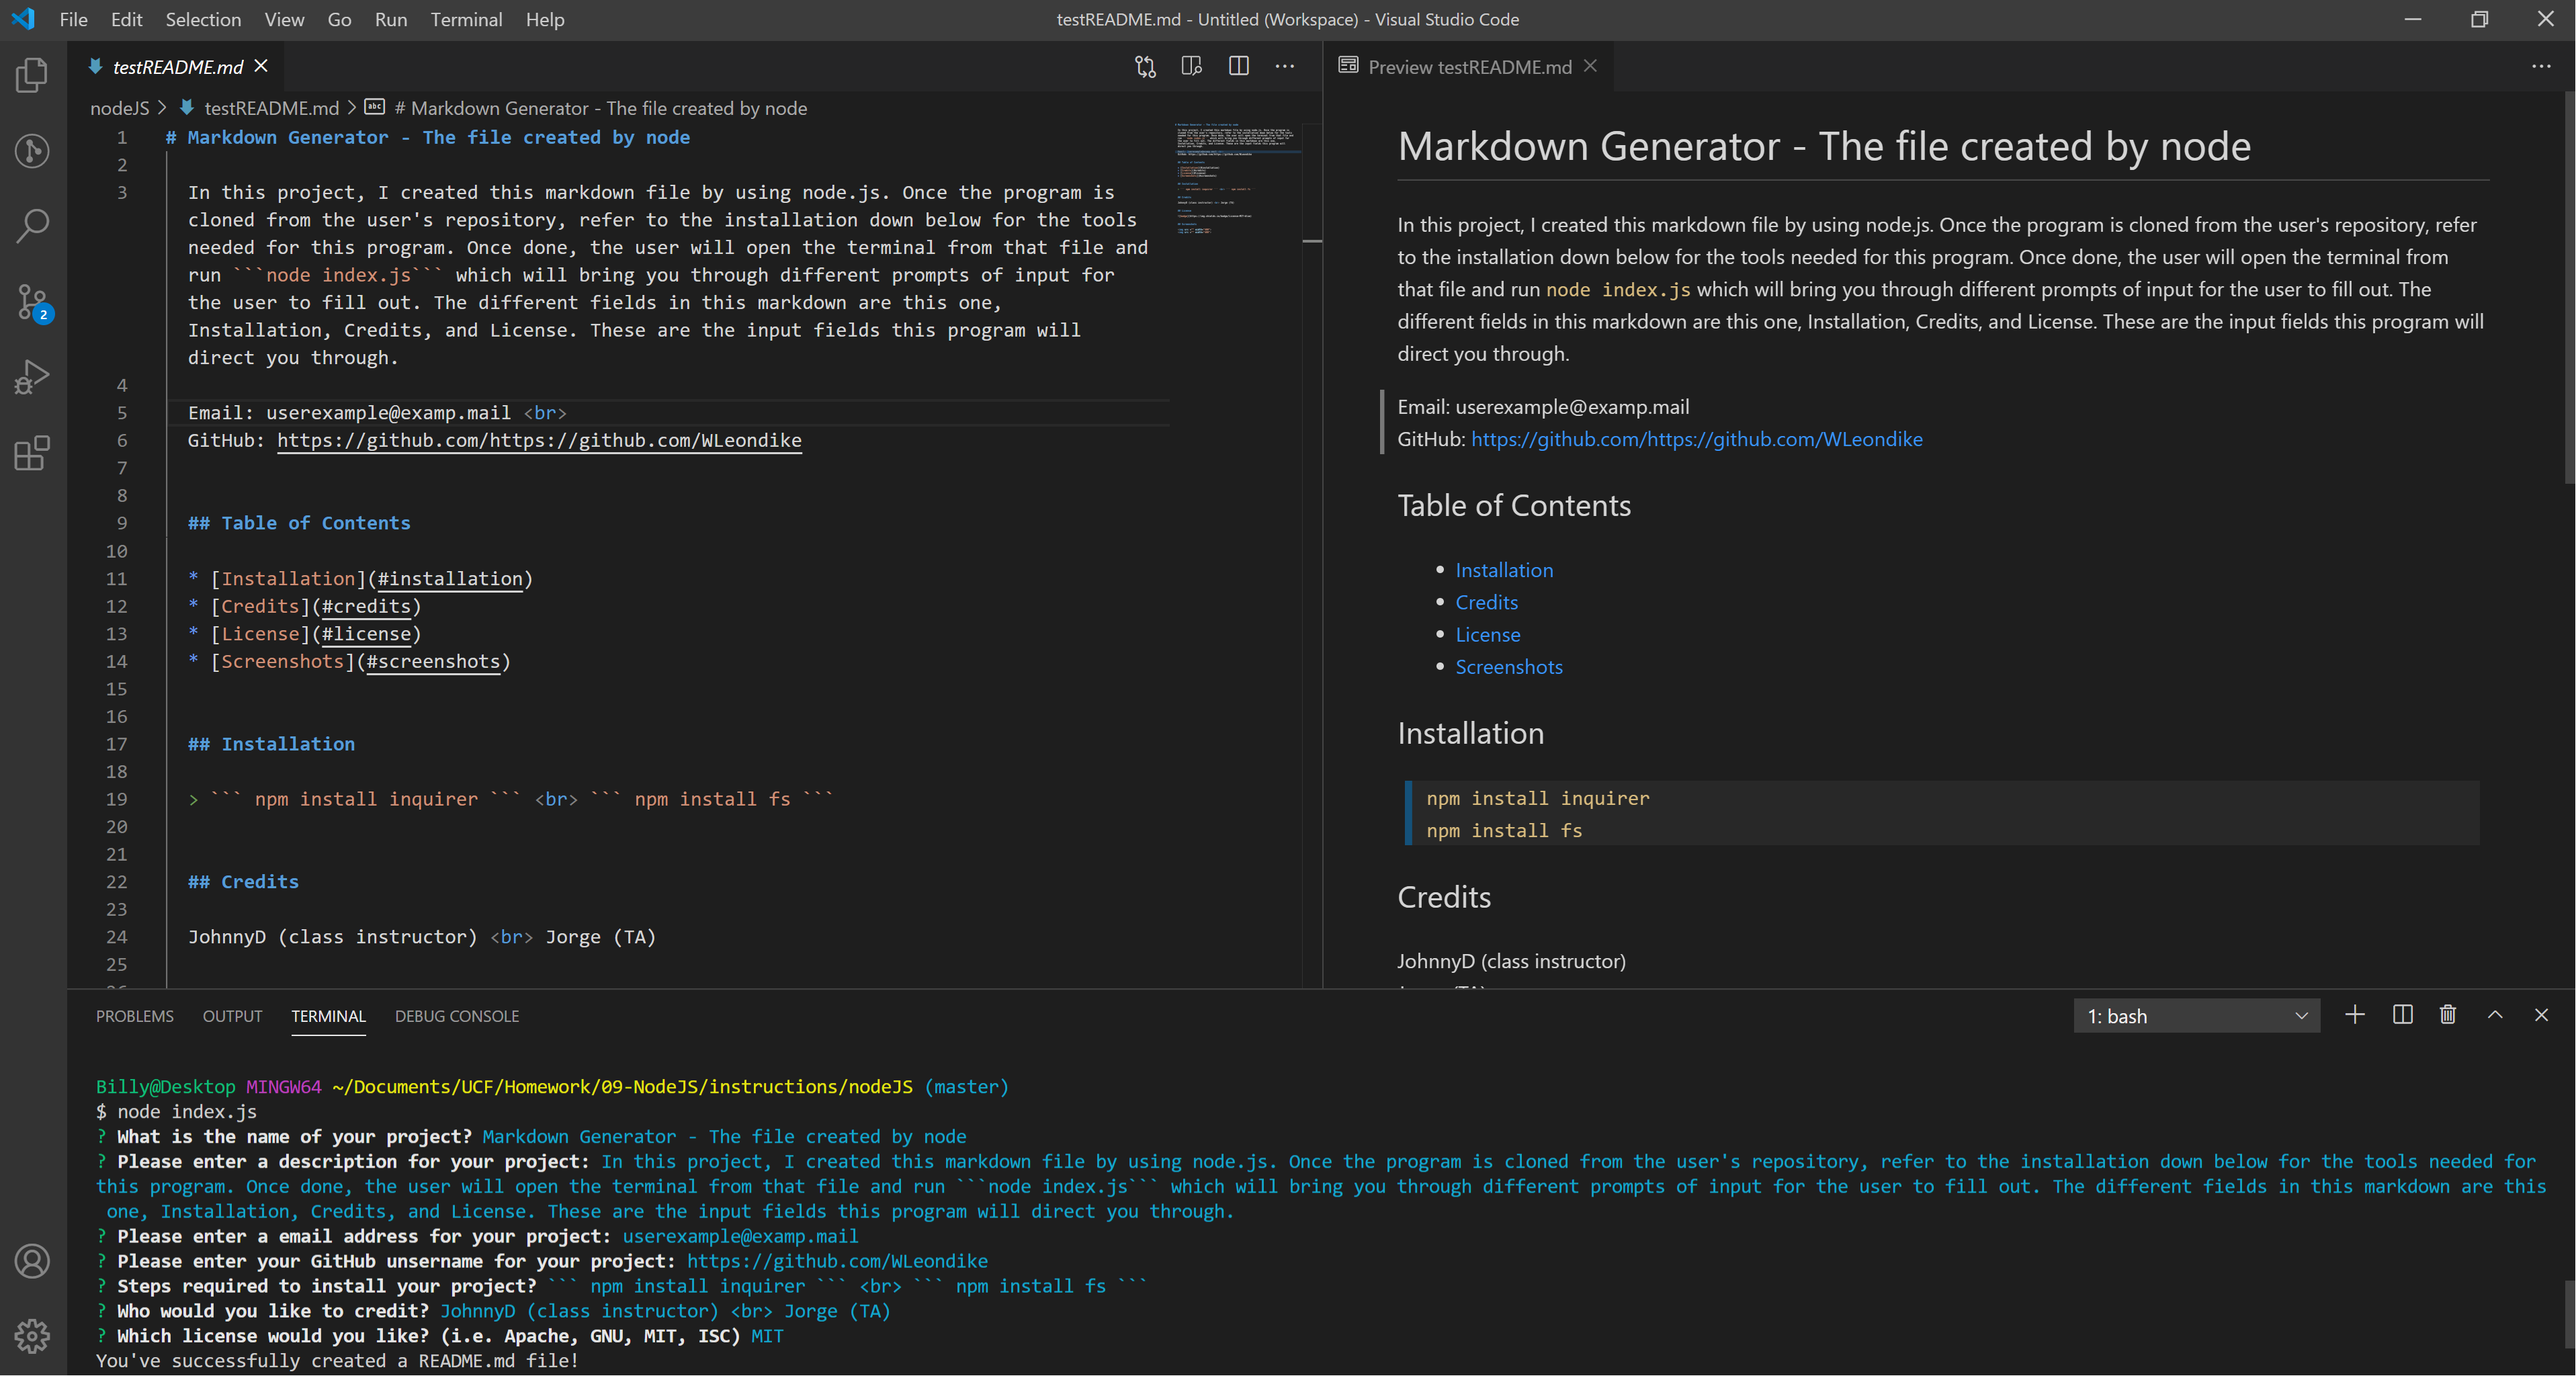
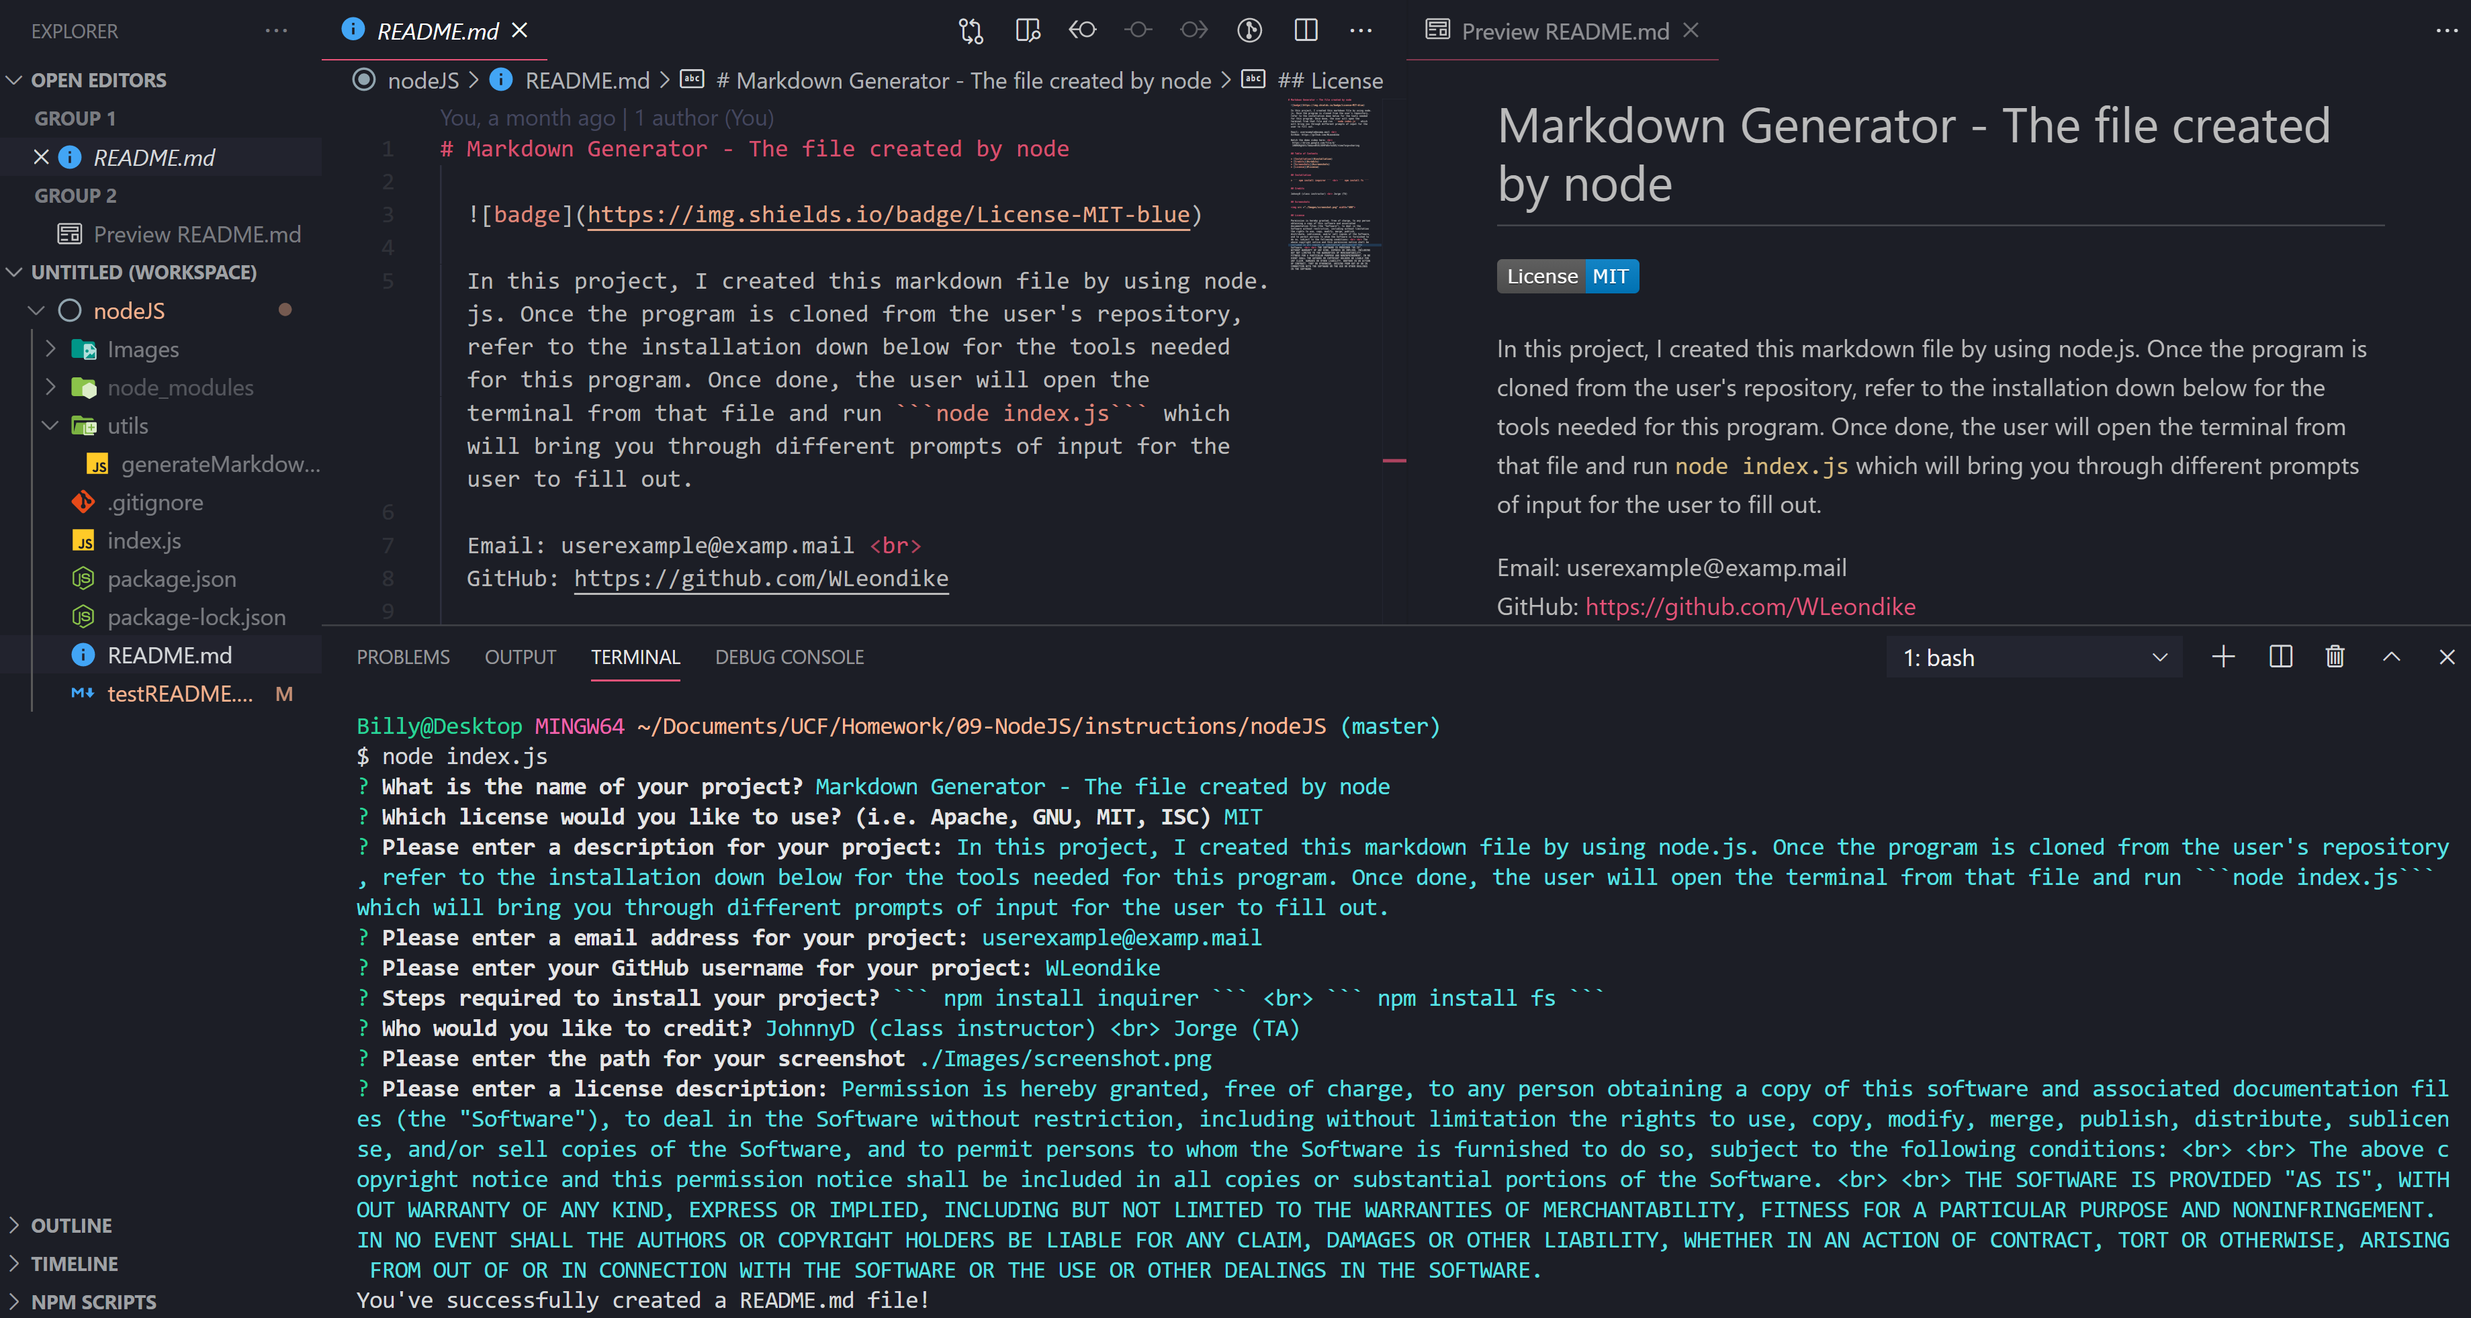
updated application screenshot

diff --git a/testREADME.md b/testREADME.md
@@ -1,22 +1,19 @@
 # Markdown Generator - The file created by node
 
   ![badge](https://img.shields.io/badge/License-MIT-blue)
-  
-  In this project, I created this markdown file by using node.js. Once the program is cloned from the user's repository, refer to the installation down below for the tools needed for this program. Once done, the user will open the terminal from that file and run ```node index.js``` which will bring you through different prompts of input for the user to fill out. 
-  
+
+  In this project, I created this markdown file by using node.js. Once the program is cloned from the user's repository, refer to the installation down below for the tools needed for this program. Once done, the user will open the terminal from that file and run ```node index.js``` which will bring you through different prompts of input for the user to fill out.
+
   Email: userexample@examp.mail <br>
   GitHub: https://github.com/WLeondike
-
-  Watch the demo video here: <br>
-   https://drive.google.com/file/d/1HBHGHghUtLTbbaznWtEL5O9Fd8vfw3AS/view?usp=sharing
-
+  
 
   ## Table of Contents
 
   * [Installation](#installation)
   * [Credits](#credits)
-  * [Screenshots](#screenshots)
   * [License](#license)
+  * [Screenshots](#screenshots)
   
 
   ## Installation
@@ -27,7 +24,7 @@
   ## Credits
   
   JohnnyD (class instructor) <br> Jorge (TA)
-
+  
 
   ## Screenshots
 
@@ -35,5 +32,5 @@
 
 
   ## License
-
+  
   Permission is hereby granted, free of charge, to any person obtaining a copy of this software and associated documentation files (the "Software"), to deal in the Software without restriction, including without limitation the rights to use, copy, modify, merge, publish, distribute, sublicense, and/or sell copies of the Software, and to permit persons to whom the Software is furnished to do so, subject to the following conditions: <br> <br> The above copyright notice and this permission notice shall be included in all copies or substantial portions of the Software. <br> <br> THE SOFTWARE IS PROVIDED "AS IS", WITHOUT WARRANTY OF ANY KIND, EXPRESS OR IMPLIED, INCLUDING BUT NOT LIMITED TO THE WARRANTIES OF MERCHANTABILITY, FITNESS FOR A PARTICULAR PURPOSE AND NONINFRINGEMENT. IN NO EVENT SHALL THE AUTHORS OR COPYRIGHT HOLDERS BE LIABLE FOR ANY CLAIM, DAMAGES OR OTHER LIABILITY, WHETHER IN AN ACTION OF CONTRACT, TORT OR OTHERWISE, ARISING FROM OUT OF OR IN CONNECTION WITH THE SOFTWARE OR THE USE OR OTHER DEALINGS IN THE SOFTWARE.
